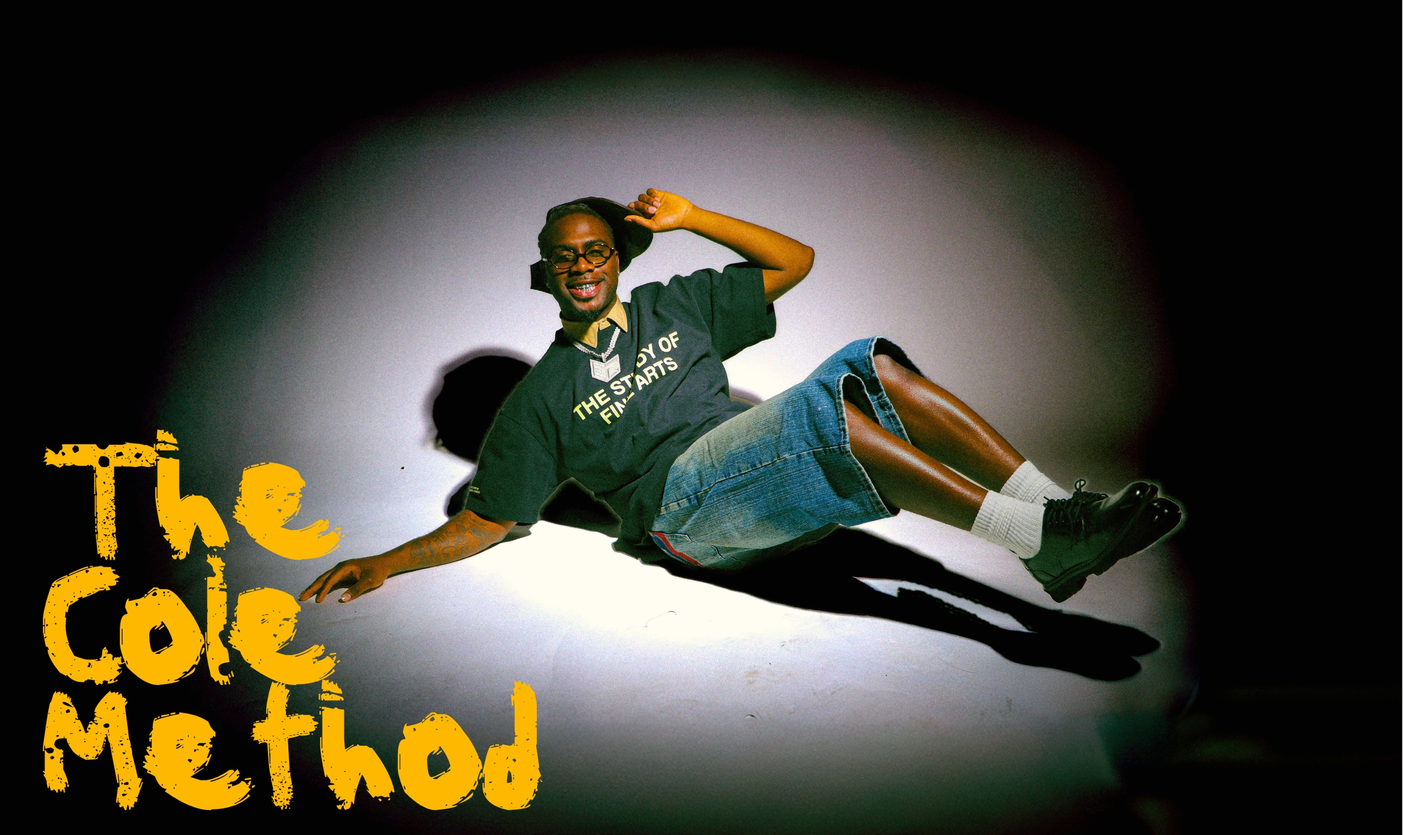
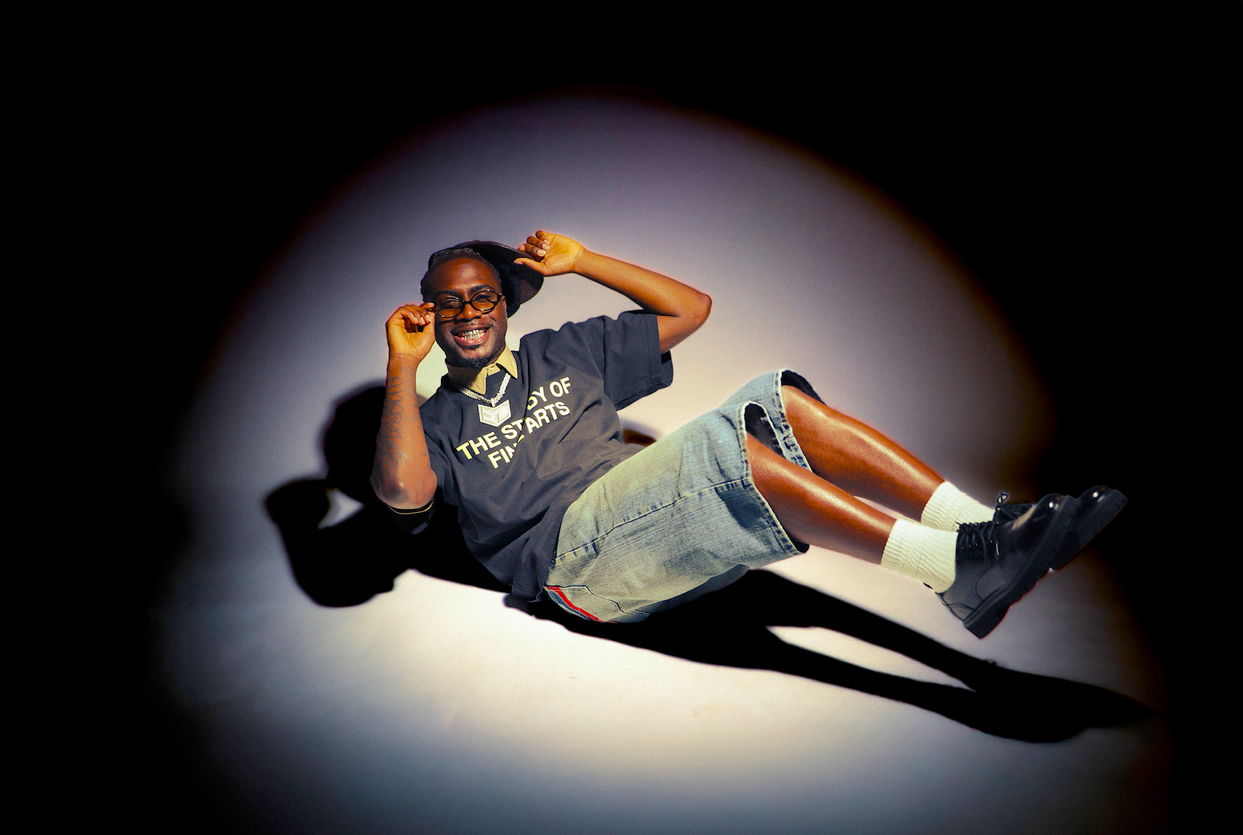
Updated Home Page Pictures

diff --git a/src/pages/Home.tsx b/src/pages/Home.tsx
@@ -38,7 +38,7 @@ const Home = () => {
   const featuredProjects: FeaturedProject[] = [
     {
       title: "The Cole Method",
-      description: "A groundbreaking fashion style that redefines luxury streetwear, by Yours Truly.",
+      description: "A groundbreaking fashion style that redefines luxury streetwear, Styled by Yours Truly.",
       fullDescription: "The Vogue Collection represents a paradigm shift in luxury fashion, seamlessly blending haute couture with street sensibilities. Each piece is meticulously crafted to challenge conventional fashion boundaries while maintaining the highest standards of craftsmanship. The collection features sustainable materials, innovative textile technologies, and bold silhouettes that speak to both traditional luxury consumers and contemporary fashion enthusiasts.",
       image: "/EddieCole.jpg",
       year: "2024",
@@ -46,7 +46,7 @@ const Home = () => {
       role: "Creative Director & Lead Designer",
       technologies: ["Sustainable Fabrics", "Digital Printing", "3D Modeling", "Smart Textiles"],
       gallery: [
-        "https://images.unsplash.com/photo-1509631179647-0177331693ae?auto=format&fit=crop&q=80",
+        "/EddieColeTheColeMethod.jpg",
         "https://images.unsplash.com/photo-1515886657613-9f3515b0c78f?auto=format&fit=crop&q=80",
         "https://images.unsplash.com/photo-1496747611176-843222e1e57c?auto=format&fit=crop&q=80"
       ]
@@ -233,17 +233,17 @@ const Home = () => {
               {
                 title: "CREATIVE DIRECTION",
                 description: "Crafting visual narratives that transcend conventional boundaries. From concept to execution, we shape brand identities that leave lasting impressions.",
-                image: "https://images.unsplash.com/photo-1542744173-8e7e53415bb0?auto=format&fit=crop&q=80"
+                image: "/EddieColeCreativeDirection"
               },
               {
                 title: "PHOTOGRAPHY",
                 description: "Capturing moments that tell stories. Our lens focuses on the extraordinary in every frame, creating visual poetry that speaks volumes.",
-                image: "https://images.unsplash.com/photo-1542038784456-1ea8e935640e?auto=format&fit=crop&q=80"
+                image: "/EddieColePhotography.jpg"
               },
               {
                 title: "FASHION DESIGN",
                 description: "Where innovation meets elegance. Our designs push boundaries while maintaining timeless appeal, setting trends rather than following them.",
-                image: "https://images.unsplash.com/photo-1558769132-cb1aea458c5e?auto=format&fit=crop&q=80"
+                image: "/EddieColeFashionDesign"
               }
             ].map((service, index) => (
               <motion.div
